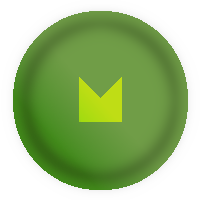
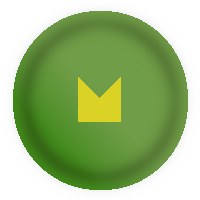
improved colors of super checkers

Changed region(s): [[0.39, 0.39, 0.63, 0.63]]

diff --git a/checkers/src/states/BoardPlayState.cpp b/checkers/src/states/BoardPlayState.cpp
@@ -206,14 +206,12 @@ bool BoardPlayState::load(void)
     SDL_GetWindowSize(m_win.get(), &screen_width, &screen_height);
 
     red_turn_text = asa::createTextureBundle(
-        renderer, 
-        TTF_RenderText_Blended(font.get(), "Red's turn", SDL_Color{0xff, 0x0, 0x0, 0xff})
-    );
+        renderer,
+        TTF_RenderText_Blended(font.get(), "Red's turn", SDL_Color{0xff, 0x0, 0x0, 0xff}));
 
     green_turn_text = asa::createTextureBundle(
-        renderer, 
-        TTF_RenderText_Blended(font.get(), "Green's turn", SDL_Color{0x0, 0xff, 0x0, 0xff})
-    );
+        renderer,
+        TTF_RenderText_Blended(font.get(), "Green's turn", SDL_Color{0x0, 0xff, 0x0, 0xff}));
 
     green_turn_text.position.x = screen_width / 2 - 85;
     green_turn_text.position.y = screen_height - 32;
@@ -267,7 +265,7 @@ bool BoardPlayState::load(void)
             current_cell.position.x(x);
             current_cell.position.y(y);
 
-/*
+            /*
 #if _DEBUG
             // + std::to_string(i) + ", " + std::to_string(j)
             debugText.emplace_back(renderer.loadSolidText(
@@ -339,26 +337,31 @@ void BoardPlayState::render(void)
 
     SDL_SetRenderDrawBlendMode(renderer.get(), SDL_BLENDMODE_NONE);
 
-
     for (std::size_t i = 0; i < BOARD_N_CHECKERS / 2; ++i)
     {
-        if (super_checker_table[i]) {
+        if (super_checker_table[i])
+        {
             SDL_RenderCopy(renderer.get(), green_super_texture.get(), nullptr, &current_checker_dimensions[i]);
-        } else {
+        }
+        else
+        {
             SDL_RenderCopy(renderer.get(), green_checker_texture.get(), nullptr, &current_checker_dimensions[i]);
         }
     }
 
     for (std::size_t i = (BOARD_N_CHECKERS / 2); i < BOARD_N_CHECKERS; ++i)
     {
-        if (super_checker_table[i]) {
+        if (super_checker_table[i])
+        {
             SDL_RenderCopy(renderer.get(), red_super_texture.get(), nullptr, &current_checker_dimensions[i]);
-        } else {
+        }
+        else
+        {
             SDL_RenderCopy(renderer.get(), red_checker_texture.get(), nullptr, &current_checker_dimensions[i]);
         }
     }
 
-/*
+    /*
 #if _DEBUG
     for (std::size_t y = 0; y < BOARD_SIDE; ++y)
     {

diff --git a/checkers/src/Main.cpp b/checkers/src/Main.cpp
@@ -48,8 +48,8 @@ int MAIN_NAME()
 
     auto font = asa::make_sdl_shared(TTF_OpenFont((asa::getBasePath() + "/assets/consola.ttf").c_str(), 24));
 
-    processor.addState(std::make_shared<WinState>(renderer, processor, font, window, message_queue));
     processor.addState(std::make_shared<PauseState>(renderer, processor, font, window));
+    processor.addState(std::make_shared<WinState>(renderer, processor, font, window, message_queue));
     processor.addState(std::make_shared<BoardPlayState>(renderer, processor, font, window, message_queue, clock));
 
     processor.processStates(clock);
